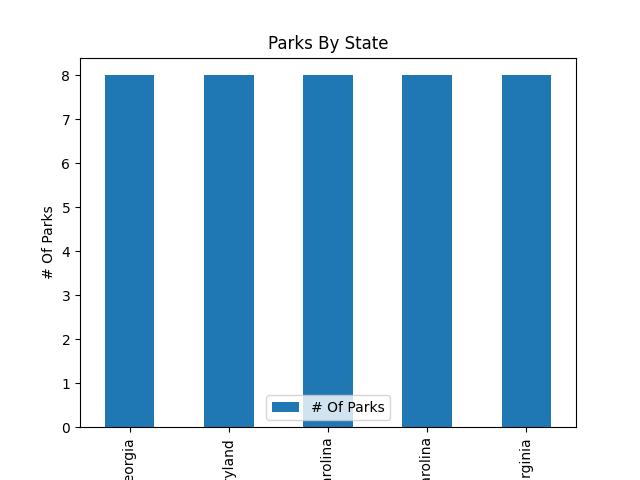
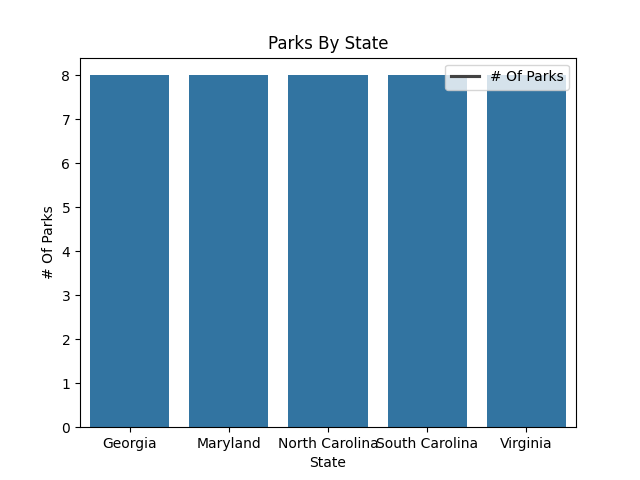
Thingy.

Changed region(s): [[0.3125, 0.125, 0.9062, 1.0], [0.125, 0.1562, 0.3438, 1.0]]

diff --git a/M6Lab/functions.py b/M6Lab/functions.py
@@ -1,6 +1,7 @@
 from pandas import DataFrame
 from matplotlib import pyplot
 import pandas
+import seaborn as sb
 
 def DisplayMenu() -> None:
     """Displays the menu.
@@ -12,7 +13,9 @@ def DisplayTopRecords(a_data: DataFrame) -> None:
     """
     print(a_data.head(15))
     _, ax = pyplot.subplots()
-    a_data.head(15).plot(kind="bar", ax=ax, title="Top 15 Parks", legend=True)
+    ax.set_title("Top 15 Parks")
+    sb.barplot(a_data.head(15), ax=ax, legend=True)
+    #a_data.head(15).plot(kind="bar", ax=ax, title="Top 15 Parks", legend=True)
     #ax.legend(["# Of Parks"])
     pyplot.savefig("top_records.png")
     pyplot.show()
@@ -27,7 +30,11 @@ def NumberOfParksByState(a_data: DataFrame) -> None:
     """
     print("\n".join([f"{state}: {parkCount}" for state, parkCount in a_data.pivot(values=["park name"], columns=["park name"], index=["state"]).count(axis=1).items()]))
     _, ax = pyplot.subplots()
-    a_data.pivot(values=["park name"], columns=["park name"], index=["state"]).count(axis=1).plot(kind="bar", ax=ax, title="Parks By State", legend=True, xlabel="State", ylabel="# Of Parks")
+    ax.set_title("Parks By State")
+    ax.set_xlabel("State")
+    ax.set_ylabel("# Of Parks")
+    sb.barplot(a_data.pivot(values=["park name"], columns=["park name"], index=["state"]).count(axis=1), ax=ax, legend=True)
+    #a_data.pivot(values=["park name"], columns=["park name"], index=["state"]).count(axis=1).plot(kind="bar", ax=ax, title="Parks By State", legend=True, xlabel="State", ylabel="# Of Parks")
     ax.legend(["# Of Parks"])
     pyplot.savefig("parks_by_state.png")
     pyplot.show()
@@ -37,7 +44,11 @@ def NumberOfParksByRegion(a_data: DataFrame) -> None:
     """
     print("\n".join([f"{region}: {parkCount}" for region, parkCount in a_data.pivot(values=["park name"], columns=["park name"], index=["Region"]).count(axis=1).items()]))
     _, ax = pyplot.subplots()
-    a_data.pivot(values=["park name"], columns=["park name"], index=["Region"]).count(axis=1).plot(kind="bar", ax=ax, title="Parks By Region", legend=True, xlabel="Region", ylabel="# Of Parks")
+    ax.set_title("Parks By Region")
+    ax.set_xlabel("Region")
+    ax.set_ylabel("# Of Parks")
+    sb.barplot(a_data.pivot(values=["park name"], columns=["park name"], index=["Region"]).count(axis=1), ax=ax, legend=True)
+    #a_data.pivot(values=["park name"], columns=["park name"], index=["Region"]).count(axis=1).plot(kind="bar", ax=ax, title="Parks By Region", legend=True, xlabel="Region", ylabel="# Of Parks")
     ax.legend(["# Of Parks"])
     pyplot.savefig("parks_by_region.png")
     pyplot.show()
@@ -45,30 +56,25 @@ def NumberOfParksByRegion(a_data: DataFrame) -> None:
 def TopParksByAcreagePerRegion(a_data: DataFrame) -> None:
     """Display the top two parks by acerage per region.
     """
-    counter1 = 0
-    counter2 = 0
-    t: DataFrame = DataFrame(index=["acreage"])
-    p: list[list[str]] = []
+    theMasterDataFrame: DataFrame = DataFrame(index=["acreage"])
+    theListHolder: list[list[str]] = []
     for region in a_data["Region"].unique():
-        counter1+=1
-        p.append([])
+        theListHolder.append([])
         print(datable := a_data[a_data["Region"] == region].sort_values("acreage").head(2)[["Region", "acreage", "park name"]])
-        for a in datable.values:
-            counter2+=1
-            p[-1].append(name := "".join(str(b) for b in a.tolist() if not isinstance(b, int)))
-            print(name)
-            print(t)
-            print(DataFrame({name: a[1]}, index=["acreage"]))
-            t = t.join(DataFrame({name: a[1]}, index=["acreage"]), how="outer")
-    print(p)
-    print(t)
-    
-    print(counter1)
-    print(counter2)
-    print([tuple(e) for e in p])
-    print(t.columns)
-    fig, ax = pyplot.subplots()
-    t.plot(y="acreage", kind="bar", ax=ax, sharex=True, sharey=True, layout=(1, len(a_data["Region"].unique())), title="Parks By Region", legend=True, subplots=[tuple(e) for e in p])
+        for value in datable.values:
+            theListHolder[-1].append(name := "".join(str(valueIter) for valueIter in value.tolist() if not isinstance(valueIter, int)))
+            theMasterDataFrame = theMasterDataFrame.join(DataFrame({name: value[1]}, index=["acreage"]), how="outer")
+
+    fig, ax = pyplot.subplots(nrows=1, ncols=len(a_data["Region"].unique()), figsize=(1, len(a_data["Region"].unique())))
+    for index, categories in enumerate(theListHolder):
+        holderFrame = DataFrame()
+        for category in categories:
+            holderFrame = holderFrame.join(theMasterDataFrame[category], how="outer")
+
+        sb.barplot(holderFrame, ax=ax[index], legend=True)
+
+    #fig, ax = pyplot.subplots()
+    #t.plot(kind="bar", ax=ax, sharex=True, sharey=True, layout=(1, len(a_data["Region"].unique())), title="Parks By Region", legend=True, subplots=[tuple(e) for e in p])
     #ax.legend(["# Of Parks"])
     pyplot.savefig("parks_by_acreage_by_region.png")
     pyplot.show()
@@ -78,7 +84,11 @@ def StateParksWithWaterfallsByState(a_data: DataFrame) -> None:
     """
     print(a_data[a_data["Feature"].str.contains("waterfalls", False)])
     _, ax = pyplot.subplots()
-    a_data[a_data["Feature"].str.contains("waterfalls", False)].pivot(values=["park name"], columns="park name", index="state").count(axis=1).plot(kind="bar", ax=ax, title="Parks With Waterfalls", legend=True, xlabel="State", ylabel="# Of Parks")
+    ax.set_title("Parks With Waterfalls")
+    ax.set_xlabel("State")
+    ax.set_ylabel("# Of Parks")
+    sb.barplot(a_data[a_data["Feature"].str.contains("waterfalls", False)].pivot(values=["park name"], columns="park name", index="state").count(axis=1), ax=ax, legend=True)
+    #a_data[a_data["Feature"].str.contains("waterfalls", False)].pivot(values=["park name"], columns="park name", index="state").count(axis=1).plot(kind="bar", ax=ax, title="Parks With Waterfalls", legend=True, xlabel="State", ylabel="# Of Parks")
     ax.legend(["# Of Parks"])
     pyplot.savefig("parks_with_waterfalls.png")
     pyplot.show()
@@ -91,6 +101,11 @@ def SearchParksByFeature(a_data: DataFrame) -> None:
     if (a_data["Feature"].str.contains(feature, False)).any():
         print(a_data[a_data["Feature"].str.contains(feature, False)])
         _, ax = pyplot.subplots()
+        ax.set_xlabel("State")
+        ax.set_title(f"Parks By {feature.title()}")
+        sb.barplot(a_data[a_data["Feature"].str.contains(feature, False)].pivot(values=["park name"], columns="park name", index="state").count(axis=1), ax=ax, legend=True)
+        ax.set_ylabel("# Of Parks")
+
         a_data[a_data["Feature"].str.contains(feature, False)].pivot(values=["park name"], columns="park name", index="state").count(axis=1).plot(kind="bar", ax=ax, title=f"Parks By {feature.title()}", legend=True, xlabel="State", ylabel="# Of Parks")
         #ax.legend(["# Of Parks"])
         pyplot.savefig(f"parks_by_{feature}.png")
@@ -107,7 +122,10 @@ def ParksByStateCode(a_data: DataFrame) -> None:
         stateCode = input("Valid states are Georgia, Maryland, North Carolina, South Carolina and Virginia:\nState Code: ").upper().strip()
     print(a_data[a_data["State Codes"] == stateCode])
     _, ax = pyplot.subplots()
-    a_data[a_data["State Codes"] == stateCode].plot(kind="bar", ax=ax, title="Parks By State Code", legend=True)
+    ax.set_title("Parks By State Code")
+    sb.barplot(a_data[a_data["State Codes"] == stateCode], ax=ax, legend=True)
+
+    #a_data[a_data["State Codes"] == stateCode].plot(kind="bar", ax=ax, title="Parks By State Code", legend=True)
     #ax.legend(["# Of Parks"])
     pyplot.savefig("parks_by_state_code.png")
     pyplot.show()

diff --git a/M5Pro/main.py b/M5Pro/main.py
@@ -1,24 +1,8 @@
 import sqlite3 as sql
 from sqlite3 import Connection, Cursor
-import pandas as pd
 from pandas import DataFrame
 
-from functions import intput
-
-"""
-* OWNER table
-    * (OwnerId, OwnerLastName, OwnerFirstName, OwnerPhone, OwnerEmail)
-    * The primary key is OwnerId
-* PETS table
-    * (PetId, PetName, PetType, PetBreed, PetDOB, Service, Date, Charge, OwnerId)
-    * Primary key is PetId
-    * Foreign key is OwnerId
-"""
-
-def displayOptions() -> None:
-    """Display the options.
-    """
-    print("Options:\n1) Display OWNER content\n2) Display PETS content\n3) Retrieve Owner and Pet data for specific Owner\n4) Calculate Total Charge by Owner\n5) Retrieve Pet information by PetBreed\n6) Exit\n")
+from functions import intput, displayOptions
 
 def main() -> None:
     """Main function.

diff --git a/M6Lab/M6Lab_DaleyOttersbach.py b/M6Lab/M6Lab_DaleyOttersbach.py
@@ -1,7 +1,7 @@
 # Lets you search parks in the data set by many different factors.
-# 9/21/2025
-# CSC221 M2Pro1– Panda DF
-# Daley Ottersbach
+# 11/16/2025
+# CSC221 M6Lab
+# # Daley Ottersbach
 
 from functions import AggregateFunction, DisplayMenu, DisplayTopRecords, NumberOfParks, NumberOfParksByRegion, NumberOfParksByState, ParksByStateCode, SearchParksByFeature, StateParksWithWaterfallsByState, TopParksByAcreagePerRegion
 from pandas import DataFrame

diff --git a/M5Pro/functions.py b/M5Pro/functions.py
@@ -12,3 +12,8 @@ def intput(a_prompt: str) -> int:
     except Exception as e:
         #print(e)
         return intput(a_prompt)
+    
+def displayOptions() -> None:
+    """Display the options.
+    """
+    print("Options:\n1) Display OWNER content\n2) Display PETS content\n3) Retrieve Owner and Pet data for specific Owner\n4) Calculate Total Charge by Owner\n5) Retrieve Pet information by PetBreed\n6) Exit\n")
